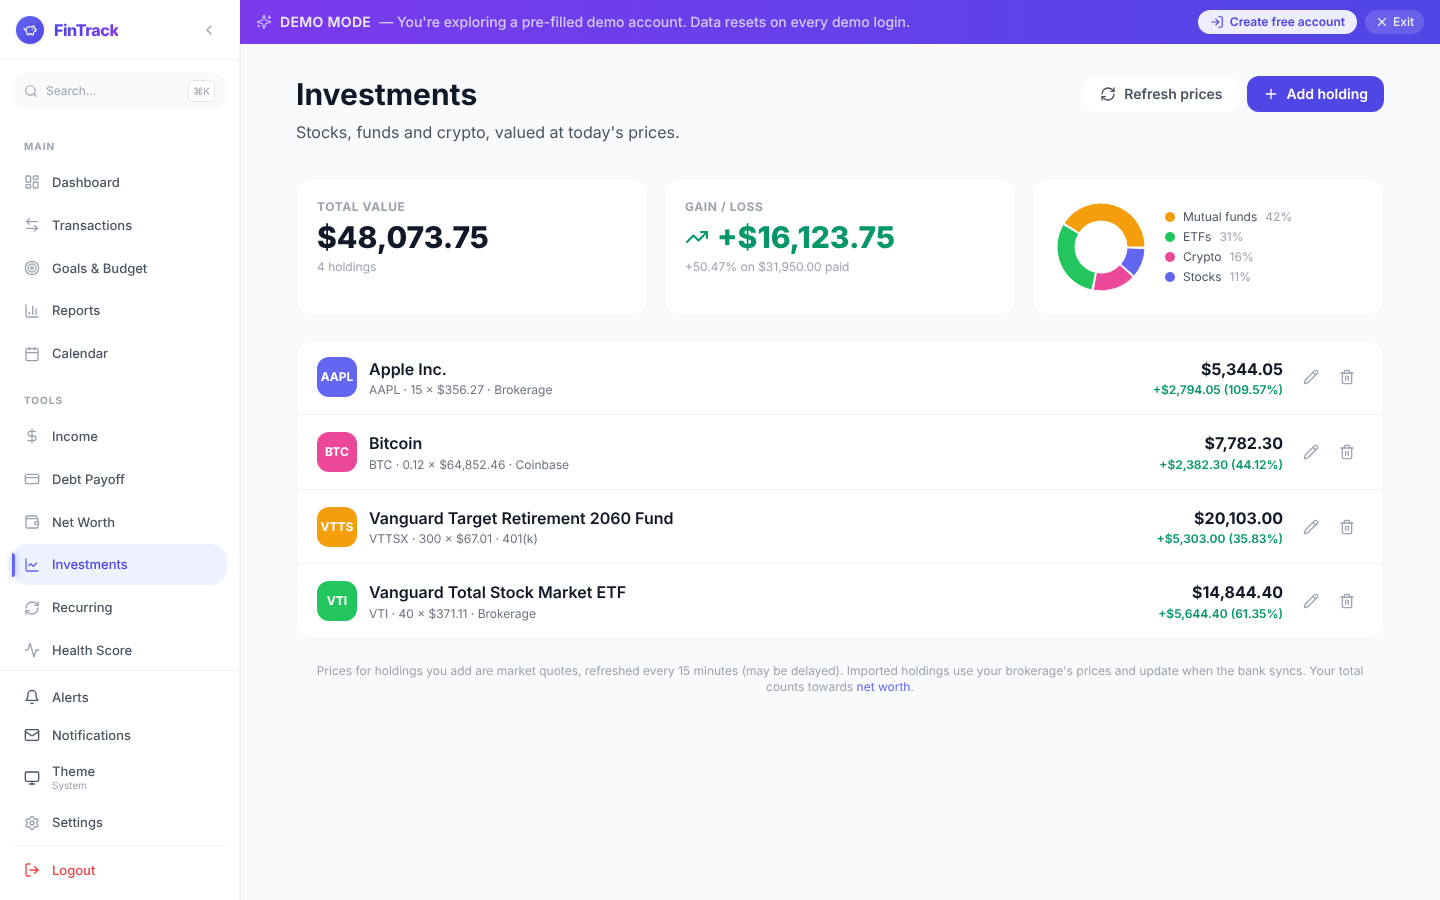
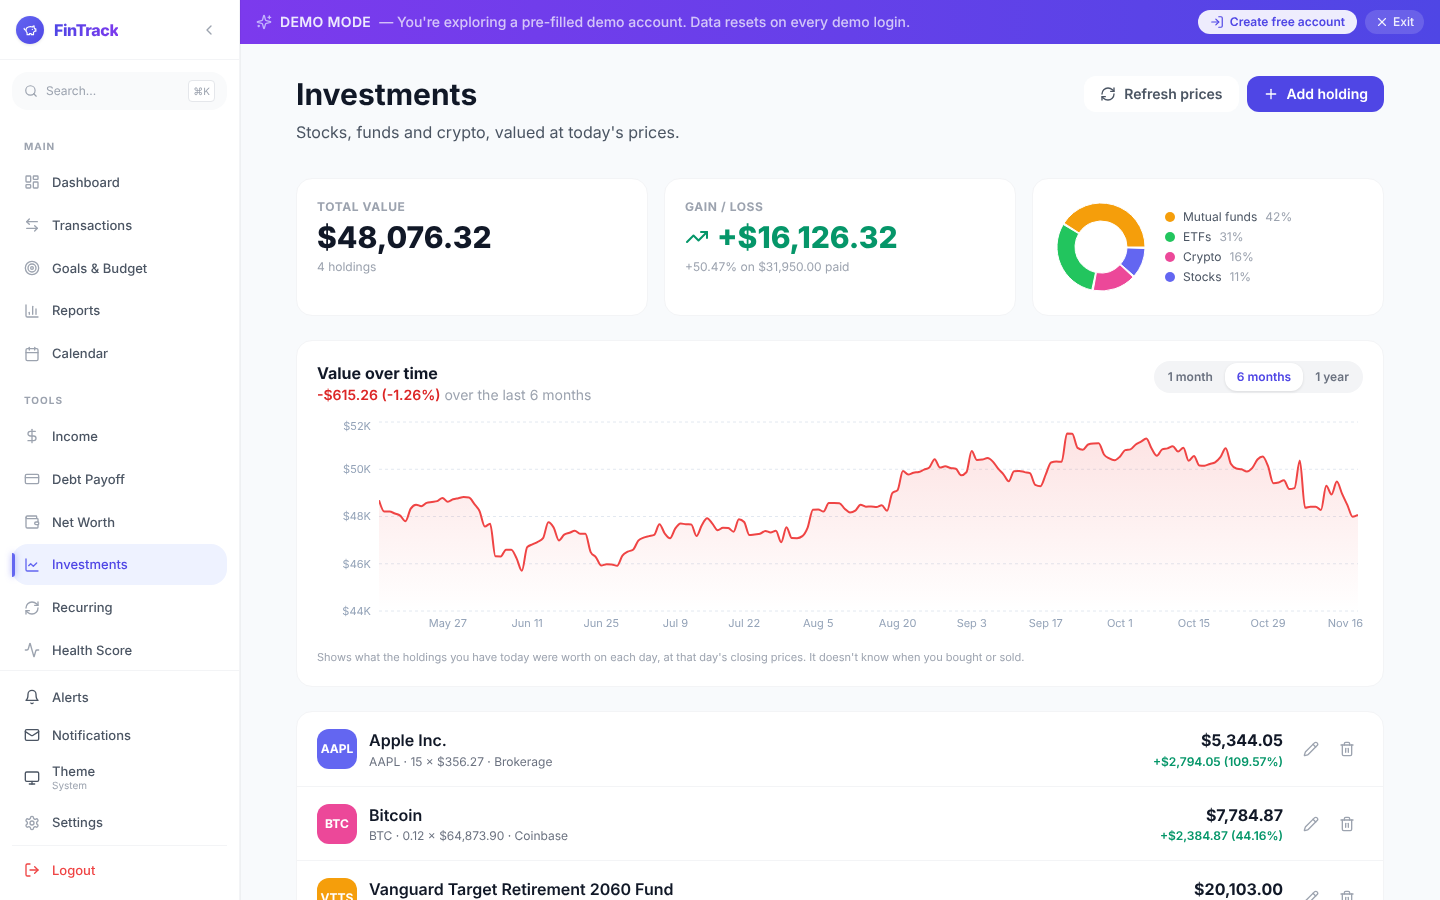
README: Investments screenshot with the value-over-time chart

diff --git a/README.md b/README.md
@@ -54,7 +54,7 @@
 | ![Dashboard](docs/screenshots/dashboard.png) | ![Transactions](docs/screenshots/transactions.png) | ![Budgets](docs/screenshots/budgets.png) |
 | **Smart alerts** | **Reports & forecast** | **Bank connections (demo mode)** |
 | ![Alerts](docs/screenshots/alerts.png) | ![Reports](docs/screenshots/reports.png) | ![Bank connections](docs/screenshots/bank-connections.png) |
-| **Investments (live prices)** | **Net worth (updates itself)** | **Two-factor sign-in** |
+| **Investments (live prices, value over time)** | **Net worth (updates itself)** | **Two-factor sign-in** |
 | ![Investments](docs/screenshots/investments.png) | ![Net worth](docs/screenshots/net-worth.png) | ![Two-factor](docs/screenshots/two-factor.png) |
 | **Getting started (new account)** | **Import: bank-by-bank help** | **Push notifications** |
 | ![Getting started](docs/screenshots/get-started.png) | ![Import guide](docs/screenshots/import-guide.png) | ![Push notifications](docs/screenshots/push-notifications.png) |
